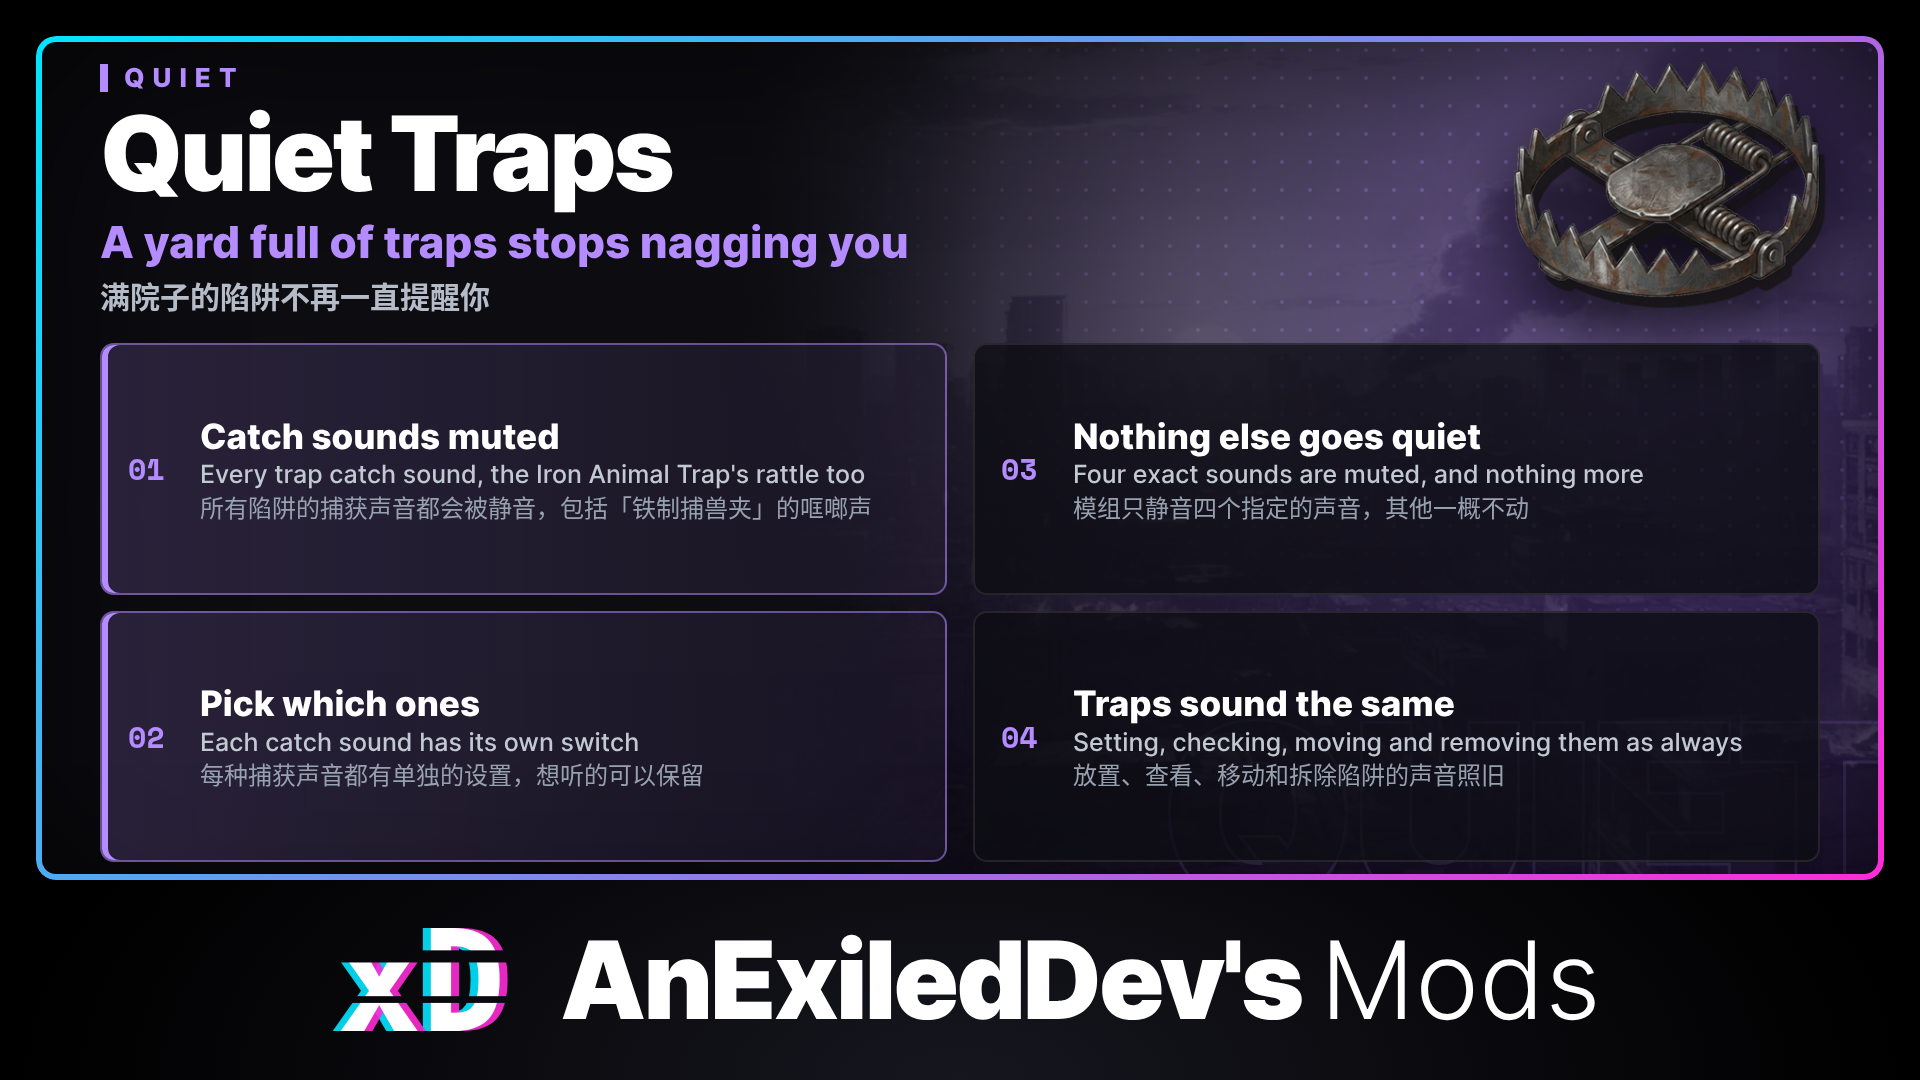
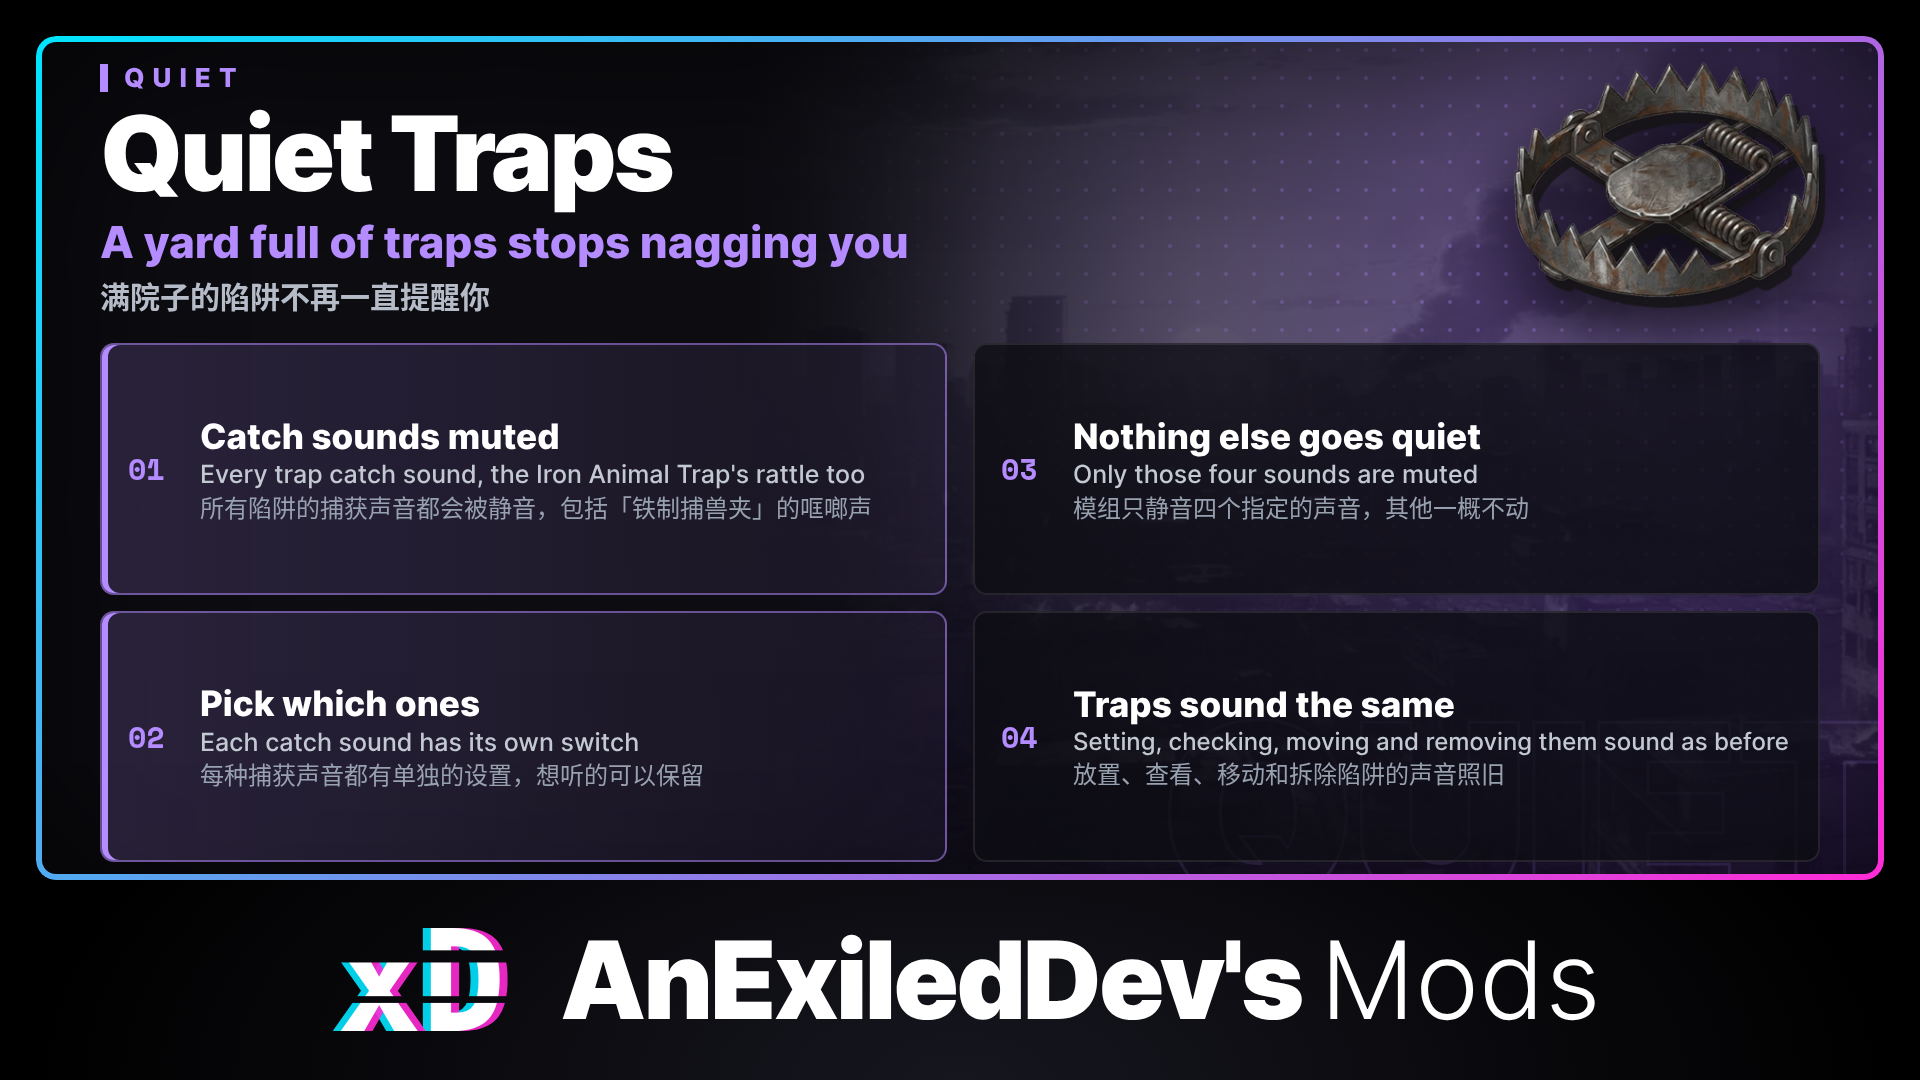
Quiet Traps 0.2.3: clearer wording
The OtherTraps and LogSounds descriptions read more naturally in English and Chinese.
The README, Nexus page, settings page and changelog say plainly what happens to a trap that already holds a catch when you change a setting.
Dropped semicolons and vague lines like "four exact sounds" and "for its shared parts".
New features image.

Changed region(s): [[0.5625, 0.6417, 0.9375, 0.7333], [0.5625, 0.4278, 0.8438, 0.4583]]

diff --git a/src/QuietTraps/Plugin.cs b/src/QuietTraps/Plugin.cs
@@ -15,7 +15,7 @@ namespace QuietTraps;
 public sealed class Plugin : BasePlugin
 {
     private const string Guid = "com.dev.survivallog.quiettraps";
-    private const string Version = "0.2.2";
+    private const string Version = "0.2.3";
 
     /// <summary>The sound log keeps earlier game starts, so past 1 MB the file is moved aside and started again.</summary>
     private const long MaxLogBytes = 1024 * 1024;
@@ -27,11 +27,11 @@ public sealed class Plugin : BasePlugin
         var liveCaptureCage = BindOneTrap("LiveCaptureCage", "Live Capture Cage", "「活捉笼」");
         var simpleBirdNet = BindOneTrap("SimpleBirdNet", "Simple Bird Net", "「简易捕鸟网」");
         var otherTraps = Bind("OtherTraps",
-            "When true, the catch sound the Simple Mousetrap, Iron Animal Trap and Auto Trap Cage share is muted, and so is the Iron Animal Trap's rattle. The game gives all three the same sound, so they share this setting. Every other trap sound still plays.",
-            "设为 true 时，「简易捕鼠夹」、「铁制捕兽夹」和「自动诱捕笼」捕获猎物后发出的声音会被静音（游戏中这三种陷阱使用同一个声音），「铁制捕兽夹」的哐啷声也会被静音。其他陷阱声音照常播放。");
+            "When true, the sound the Simple Mousetrap, Iron Animal Trap and Auto Trap Cage make while they hold a catch is muted, along with the Iron Animal Trap's rattle. The game gives all three traps the same sound, so one setting covers them. Every other trap sound still plays.",
+            "设为 true 时，「简易捕鼠夹」、「铁制捕兽夹」和「自动诱捕笼」捕获猎物后发出的声音会被静音，「铁制捕兽夹」的哐啷声也会被静音。游戏里这三种陷阱用的是同一个声音，所以共用这一项设置。其他陷阱声音照常播放。");
         var isLoggingSounds = Config.Bind("Diagnostics", "LogSounds", false,
-            new ConfigDescription("When true, the first three times each sound starts are written to BepInEx\\quiet-traps.log with the time, marked (muted) when this mod silenced it. Turn it on to find a trap sound that still plays.\n" +
-            "设为 true 时，每个声音的前三次播放都会连同时间写入 BepInEx\\quiet-traps.log，被本模组静音的会标注 (muted)。想找出仍在播放的陷阱声音时再打开。", null, "ModManager.Advanced"));
+            new ConfigDescription("When true, the first three times each sound plays are written to BepInEx\\quiet-traps.log with the time. Sounds this mod muted are marked (muted). Turn it on to find a trap sound that still plays.\n" +
+            "设为 true 时，每个声音的前三次播放会连同时间写入 BepInEx\\quiet-traps.log，被本模组静音的声音会标注 (muted)。如果有陷阱声音仍在播放，可以打开它来查找。", null, "ModManager.Advanced"));
         // The file is the sound log, so it stays off until LogSounds turns it on; every line still goes to the BepInEx log.
         var log = new ModLog(Log, "quiet-traps.log") { MaxFileBytes = MaxLogBytes, IsFileOn = false };
         var patches = new PatchKit(new Harmony(Guid), log.Write);

diff --git a/README.md b/README.md
@@ -2,24 +2,24 @@
 
 Mutes the sound a trap makes once it has caught something. Every other sound plays as normal.
 
-When a trap in Survival Log catches prey, it keeps playing a sound until you collect the catch. With a few traps set, that adds up. Quiet Traps silences that sound, and only that sound: setting, moving, checking and removing traps still sound the same.
+When a trap in Survival Log catches prey, it keeps playing a sound until you collect the catch. With a few traps set, it gets loud. Quiet Traps mutes that sound. Setting, moving, checking and removing a trap still make their usual sounds.
 
 ## Features
 
-- **Catch sounds muted**: every trap catch sound, including the Iron Animal Trap's rattle, is silenced by default.
-- **Pick which ones**: each catch sound has its own setting, so you can keep the ones you want to hear.
-- **Nothing else goes quiet**: the mod mutes four exact sounds and nothing else.
-- **Find a missed sound**: turn on `LogSounds` and the mod writes the sounds it sees to a log file.
+- **Catch sounds muted**: by default, every trap's catch sound is muted, including the Iron Animal Trap's rattle.
+- **One setting per sound**: each catch sound has its own setting, so you can keep the ones you want to hear.
+- **Other sounds still play**: the mod only mutes the three catch sounds and the Iron Animal Trap's rattle.
+- **Sound log**: if a trap sound still plays, turn on `LogSounds` and the mod lists the sounds that play in a log file.
 
-The game has five traps but only three catch sounds. The Live Capture Cage and the Simple Bird Net each have their own. The Simple Mousetrap, the Iron Animal Trap and the Auto Trap Cage share one, so they are turned on and off together. The Iron Animal Trap also rattles while it holds a catch; that rattle goes with the same setting.
+The game has five traps but only three catch sounds. The Live Capture Cage and the Simple Bird Net each have their own sound. The Simple Mousetrap, the Iron Animal Trap and the Auto Trap Cage share one, so one setting mutes all three. The Iron Animal Trap also rattles while it holds a catch, and the same setting mutes the rattle.
 
 Quiet Traps only changes what you hear. It adds nothing to your save and does not edit game files. You can remove it at any time.
 
 ## Requirements
 
-- Survival Log 1.1.20719. Built for this version; a game update can break it until the mod is updated.
+- Survival Log 1.1.20719. Built for this version, so a game update can break it until the mod is updated.
 - The [BepInEx Pack for Survival Log](https://www.nexusmods.com/survivallog/mods/12), the BepInEx 6 (IL2CPP) build for the game.
-- [Exiled's Toolkit](https://github.com/AnExiledDev/SurvivalLog-ExiledToolkit) 0.19.0 or newer. Quiet Traps does not load without it. It applies settings changed on the Mod Manager's Mods screen without a restart.
+- [Exiled's Toolkit](https://github.com/AnExiledDev/SurvivalLog-ExiledToolkit) 0.19.0 or newer. Quiet Traps does not load without it. It also lets settings you change on the Mod Manager's Mods screen apply without a restart.
 - Optional: [Mod Manager](https://www.nexusmods.com/survivallog/mods/73). With it, you can change every setting in game on its Mods screen and see what each one does, without opening the config file.
 
 ## Install
@@ -32,17 +32,17 @@ Quiet Traps only changes what you hear. It adds nothing to your save and does no
 
 ## Uninstall
 
-Delete `QuietTraps.dll` from the `BepInEx\plugins` folder. For a clean slate, also delete `BepInEx\config\com.dev.survivallog.quiettraps.cfg` and, if it exists, `BepInEx\quiet-traps.log`.
+Delete `QuietTraps.dll` from the `BepInEx\plugins` folder. To remove its settings and log too, also delete `BepInEx\config\com.dev.survivallog.quiettraps.cfg` and, if it exists, `BepInEx\quiet-traps.log`.
 
 ## Configuration
 
-Settings live in `BepInEx\config\com.dev.survivallog.quiettraps.cfg`, created the first time the game starts with the mod. Change them in game on the Mod Manager's Mods screen, where they take effect at once, or edit the file while the game is closed. A trap that already holds a catch changes once you load a save. See [CONFIG.md](CONFIG.md) for every setting.
+Settings live in `BepInEx\config\com.dev.survivallog.quiettraps.cfg`, created the first time the game starts with the mod. Change them in game on the Mod Manager's Mods screen, where they take effect at once, or edit the file while the game is closed. If a trap already holds a catch when you change a setting, its sound only changes after you load a save. See [CONFIG.md](CONFIG.md) for every setting.
 
 ## Troubleshooting
 
 Built against BepInEx `6.0.0-be.788`.
 
-Check `BepInEx\LogOutput.log` for `===== Quiet Traps 0.2.2 started`, followed by lines starting with `hooked`. A line starting with `could not hook` means part of the mod does not work on this game version.
+Check `BepInEx\LogOutput.log` for `===== Quiet Traps 0.2.3 started`, followed by lines starting with `hooked`. A line starting with `could not hook` means part of the mod does not work on this game version.
 
 ## Known issues
 
@@ -50,9 +50,9 @@ None known. If a trap sound still plays, set `LogSounds` to `true` and start the
 
 ## Feedback and bug reports
 
-Found a bug, have an idea, or something feels off? Come say so on the Core Directive Discord: https://discord.gg/trTsyxUFqg . You can also post in the Posts tab of the mod's Nexus Mods page. When reporting a bug, attach `BepInEx\LogOutput.log` and, if you turned on `LogSounds`, `BepInEx\quiet-traps.log`.
+Found a bug or have an idea? Come say so on the Core Directive Discord: https://discord.gg/trTsyxUFqg . You can also post in the Posts tab of the mod's Nexus Mods page. When reporting a bug, attach `BepInEx\LogOutput.log` and, if you turned on `LogSounds`, `BepInEx\quiet-traps.log`.
 
-To reach me directly, message `exiled.dev` on Discord; you can find me in the [official Survival Log Discord](https://discord.gg/MZGg4gQAUe). I'm also on X as [@AnExiledDev](https://x.com/AnExiledDev).
+To reach me directly, message `exiled.dev` on Discord. You can find me in the [official Survival Log Discord](https://discord.gg/MZGg4gQAUe). I'm also on X as [@AnExiledDev](https://x.com/AnExiledDev).
 
 A Survival Log wiki with detailed documentation for all of my mods is coming soon.
 
@@ -66,7 +66,7 @@ dotnet build src/QuietTraps -c Release -p:GameDir="C:\path\to\Survival Log" -p:T
 
 `GameDir` is the game folder and `ToolkitDll` is a built `ExiledToolkit.dll`. The defaults in the project file are local paths you will almost certainly need to override. The output DLL is at `src\QuietTraps\bin\Release\QuietTraps.dll`.
 
-The unit tests cover the pure muting rules and need nothing from the game:
+The unit tests cover which sounds get muted and logged, and need nothing from the game:
 
 ```
 dotnet test tests/QuietTraps.Tests

diff --git a/CONFIG.md b/CONFIG.md
@@ -1,6 +1,6 @@
 # Quiet Traps settings
 
-Settings live in `BepInEx\config\com.dev.survivallog.quiettraps.cfg`, created the first time the game starts with the mod. Change them in game on the Mod Manager's Mods screen, where they take effect at once, or edit the file while the game is closed. A trap that already holds a catch changes once you load a save. Delete the file to get the defaults back.
+Settings live in `BepInEx\config\com.dev.survivallog.quiettraps.cfg`, created the first time the game starts with the mod. Change them in game on the Mod Manager's Mods screen, where they take effect at once, or edit the file while the game is closed. If a trap already holds a catch when you change a setting, its sound only changes after you load a save. Delete the file to get the defaults back.
 
 ## Mute
 
@@ -10,10 +10,10 @@ Each setting mutes the sound a trap plays while it holds a catch. Set one to `fa
 | --- | --- | --- |
 | `LiveCaptureCage` | `true` | Live Capture Cage |
 | `SimpleBirdNet` | `true` | Simple Bird Net |
-| `OtherTraps` | `true` | Simple Mousetrap, Iron Animal Trap and Auto Trap Cage. The game gives all three the same sound, so they share one setting. It also mutes the Iron Animal Trap's rattle. |
+| `OtherTraps` | `true` | Simple Mousetrap, Iron Animal Trap and Auto Trap Cage. The game gives all three the same sound, so they share one setting. This setting also mutes the Iron Animal Trap's rattle. |
 
 ## Diagnostics
 
 | Setting | Default | What it does |
 | --- | --- | --- |
-| `LogSounds` | `false` | Writes the first three starts of each sound to `BepInEx\quiet-traps.log` with the time, marked `(muted)` when this mod silenced it. Turn it on to find a trap sound that still plays: look for a sound with `xianjing` in its name that is not marked `(muted)`. Each game start adds its sounds below a `===== Quiet Traps` line. Past 1 MB the file is renamed to `quiet-traps.log.1` and started again. |
+| `LogSounds` | `false` | Writes the first three times each sound plays to `BepInEx\quiet-traps.log`, with the time. Sounds this mod muted are marked `(muted)`. Turn it on to find a trap sound that still plays: look for a sound with `xianjing` in its name that is not marked `(muted)`. Each game start adds its sounds below a `===== Quiet Traps` line. When the file passes 1 MB, it is renamed to `quiet-traps.log.1` and a new one starts. |

diff --git a/CHANGELOG.md b/CHANGELOG.md
@@ -1,9 +1,14 @@
 # Changelog
 
+## 0.2.3
+
+- Clearer wording in the settings.
+- Made for Survival Log 1.1.20719.
+
 ## 0.2.2
 
-- Now uses Exiled's Toolkit for its shared parts, so it needs Exiled's Toolkit 0.19.0 or newer.
-- With `LogSounds` on, `quiet-traps.log` now keeps the sounds from earlier game starts too, each start below its own `=====` line. Past 1 MB the file is renamed to `quiet-traps.log.1` and started again.
+- Now needs Exiled's Toolkit 0.19.0 or newer.
+- With `LogSounds` on, `quiet-traps.log` no longer starts empty each time you start the game. Each game start gets its own `=====` line. When the file passes 1 MB, it is renamed to `quiet-traps.log.1` and a new one starts.
 - Made for Survival Log 1.1.20719.
 
 ## 0.2.1
@@ -14,8 +19,8 @@
 ## 0.2.0
 
 - Mod Manager's Mods screen links to this changelog.
-- On the Mods screen, the diagnostics settings are in the Advanced group, which starts folded.
-- Settings changed on the Mod Manager's Mods screen take effect at once. A trap that already holds a catch changes once you load a save.
+- On the Mods screen, the diagnostics settings are in the Advanced group, which starts collapsed.
+- Settings changed on the Mod Manager's Mods screen take effect at once. If a trap already holds a catch when you change a setting, its sound only changes after you load a save.
 - Mod Manager's Mods screen shows the mod's name, description, category and links.
 - Exiled's Toolkit 0.4.0 or newer is optional. With it, settings you change on the Mods screen take effect right away. Without it, they take effect the next time you start the game.
 
